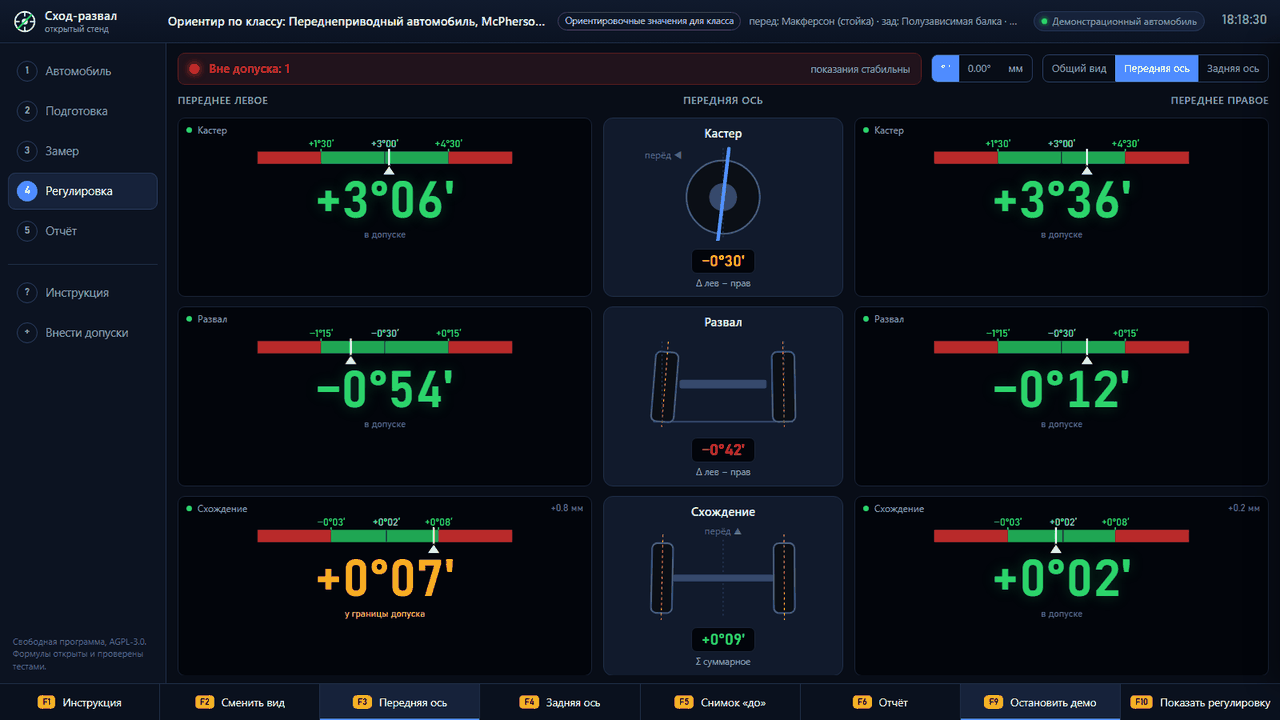
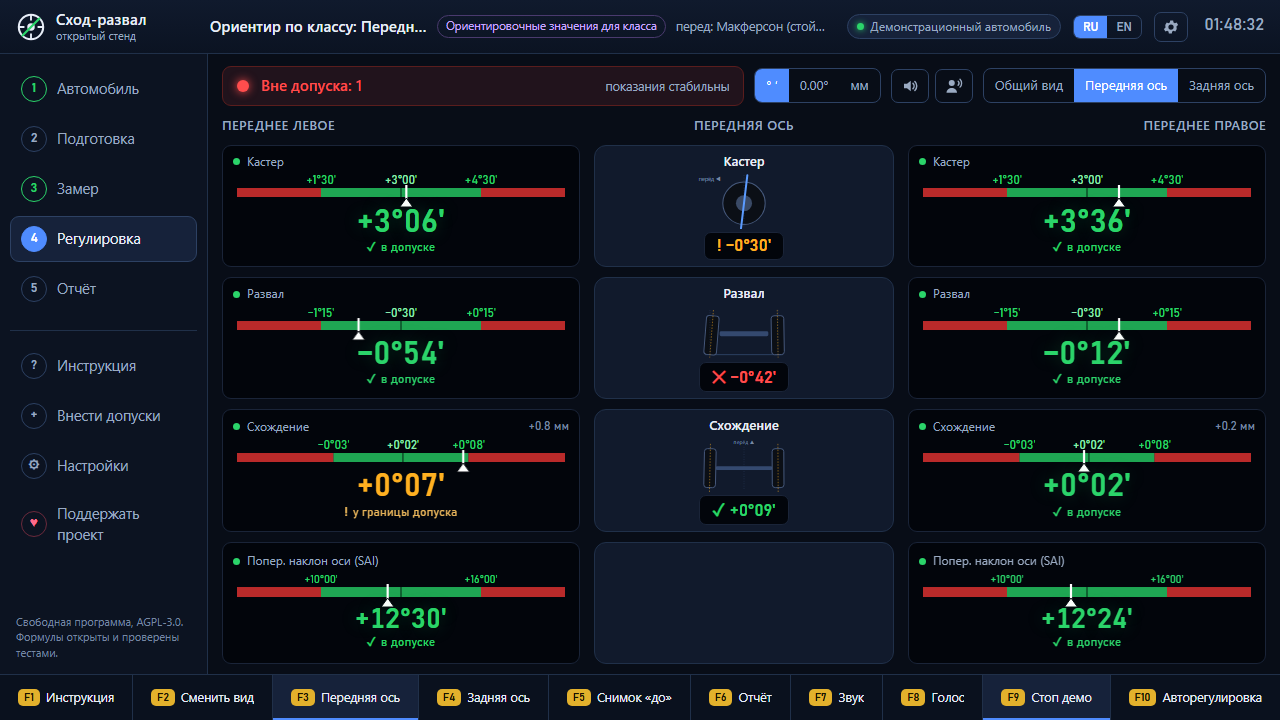
Документация: «Удобно каждому», раздел о доступности, новые снимки
- README (RU/EN): раздел «Удобно каждому», светлая тема на снимке.
- Инструкция: раздел «Настройки и доступность», марки по регионам,
  F7/F8 и клавиатура в таблице клавиш.
- docs/GUIDE.md собирается из инструкции программы скриптом
  docs/tools/guide_md.py — теперь он в репозитории.
- Снимки экранов пересняты с нового интерфейса.

diff --git a/docs/tools/guide_md.py b/docs/tools/guide_md.py
@@ -1,0 +1,143 @@
+"""Build docs/GUIDE.md from the in-app guide (internal/server/web/js/guide/ru.js
+and en.js), so the guide on GitHub says exactly what the program says.
+
+    python docs/tools/guide_md.py
+
+The section "Suspension types" is filled in the program from the suspension
+catalogue; here its table is kept from the current GUIDE.md.
+"""
+import html
+import os
+import re
+
+ROOT = os.path.normpath(os.path.join(os.path.dirname(os.path.abspath(__file__)), '..', '..'))
+GUIDE = os.path.join(ROOT, 'internal', 'server', 'web', 'js', 'guide')
+OUT = os.path.join(ROOT, 'docs', 'GUIDE.md')
+
+HEAD = {
+    'ru': dict(anchor='ru', lang_line='**Русский** · [English](#eng)', title='Сход-развал — инструкция',
+               after='Та же инструкция есть в программе — клавиша **F1**. Подробности о методе и точности — в [PROCEDURE.md](PROCEDURE.md).',
+               toc='**Содержание:**'),
+    'en': dict(anchor='eng', lang_line='[Русский](#ru) · **English**', title='Wheel alignment — guide',
+               after='The same guide is inside the program — press **F1**. Method and accuracy in depth — [PROCEDURE.md](PROCEDURE.md#eng).',
+               toc='**Contents:**'),
+}
+PREFIX = {'ru': 'ru', 'en': 'en'}
+
+# Pictures at the end of a section — only on GitHub, the program shows itself.
+IMAGES = {
+    'ru': {'vehicle': '![Выбор автомобиля](img/vehicle.png)',
+           'phone': '<img src="img/phone.png" width="220" alt="Страница на телефоне">',
+           'live': '![Экран регулировки](img/live-overview.png)',
+           'access': '![Настройки](img/settings.png)'},
+    'en': {'vehicle': '![Choosing a vehicle](img/vehicle-en.png)',
+           'phone': '<img src="img/phone.png" width="220" alt="The phone page">',
+           'live': '![The adjustment screen](img/live-overview-en.png)',
+           'access': '![Settings](img/settings-en.png)'},
+}
+
+
+def read_js(lang):
+    src = open(os.path.join(GUIDE, lang + '.js'), encoding='utf-8').read()
+    lede = re.search(r"lede:\s*`(.*?)`", src, re.S).group(1)
+    sections = re.findall(r"^\['(\w+)', '((?:[^'\\]|\\.)*)', `(.*?)`\],", src, re.S | re.M)
+    return lede, sections
+
+
+def unjs(s):
+    # Template literals: \\ is a backslash.
+    return s.replace('\\\\', '\\')
+
+
+def inline(s):
+    s = re.sub(r'\s+', ' ', s).strip()
+    s = re.sub(r'<span class="badge[^"]*">(.*?)</span>', r'`\1`', s)
+    s = re.sub(r'</?(b|strong)>', '**', s)
+    s = re.sub(r'</?i>', '*', s)
+    s = re.sub(r'<code>(.*?)</code>', lambda m: '`' + html.unescape(m.group(1)) + '`', s)
+    s = re.sub(r'<a href="([^"]+)">(.*?)</a>', r'[\2](\1)', s)
+    s = re.sub(r'<br\s*/?>', '<br>', s)
+    s = re.sub(r'<span[^>]*>(.*?)</span>', r'\1', s)
+    s = s.replace('&lt;', '<').replace('&gt;', '>').replace('&amp;', '&')
+    return s
+
+
+def table(t):
+    rows = re.findall(r'<tr>(.*?)</tr>', t, re.S)
+    head = re.search(r'<thead>(.*?)</thead>', t, re.S)
+    out = []
+    if head:
+        cells = re.findall(r'<th>(.*?)</th>', head.group(1), re.S)
+        out.append('| ' + ' | '.join(inline(c) for c in cells) + ' |')
+        out.append('|' + '|'.join('---' for _ in cells) + '|')
+        rows = re.findall(r'<tr>(.*?)</tr>', t.split('</thead>', 1)[1], re.S)
+    else:
+        out.append('|   |   |')
+        out.append('|---|---|')
+    for r in rows:
+        m = re.match(r'\s*<td colspan="2"[^>]*>(.*?)</td>\s*$', r, re.S)
+        if m:
+            out.append(f'| **{inline(m.group(1))}** |  |')
+            continue
+        cells = re.findall(r'<td[^>]*>(.*?)</td>', r, re.S)
+        out.append('| ' + ' | '.join(inline(c) for c in cells) + ' |')
+    return '\n'.join(out)
+
+
+def lists(tag, body):
+    items = re.findall(r'<li>(.*?)</li>', body, re.S)
+    mark = (lambda i: f'{i + 1}. ') if tag == 'ol' else (lambda i: '- ')
+    return '\n'.join(mark(i) + inline(x) for i, x in enumerate(items))
+
+
+def block(h, susp_table):
+    out = []
+    pos = 0
+    pat = re.compile(r'<(p|ol|ul|table|div)([^>]*)>(.*?)</\1>', re.S)
+    for m in pat.finditer(h):
+        tag, attrs, body = m.group(1), m.group(2), m.group(3)
+        if tag == 'p':
+            out.append(inline(body))
+        elif tag in ('ol', 'ul'):
+            out.append(lists(tag, body))
+        elif tag == 'table':
+            out.append(table(m.group(0)))
+        elif tag == 'div':
+            if 'note' in attrs:
+                out.append('> ' + inline(body))
+            elif 'gSusp' in attrs:
+                out.append(susp_table)
+            else:
+                out.append(inline(body))
+    return '\n\n'.join(x for x in out if x)
+
+
+def current_susp(lang):
+    """The suspension table as it stands in GUIDE.md now."""
+    if not os.path.exists(OUT):
+        return ''
+    md = open(OUT, encoding='utf-8').read()
+    p = PREFIX[lang]
+    m = re.search(rf'<a id="{p}-susp"></a>\n\n## [^\n]*\n\n[^\n]*\n\n(.*?)\n\n<a id="{p}-trucks"></a>', md, re.S)
+    return m.group(1).strip() if m else ''
+
+
+def build(lang):
+    lede, sections = read_js(lang)
+    h = HEAD[lang]
+    p = PREFIX[lang]
+    out = [f'<a id="{h["anchor"]}"></a>', h['lang_line'], f'# {h["title"]}', inline(lede), h['after'],
+           h['toc'] + ' ' + ' · '.join(f'[{inline(unjs(name))}](#{p}-{sid})' for sid, name, _ in sections)]
+    susp = current_susp(lang)
+    for sid, name, body in sections:
+        out.append(f'<a id="{p}-{sid}"></a>')
+        out.append(f'## {inline(unjs(name))}')
+        out.append(block(unjs(body), susp))
+        if sid in IMAGES[lang]:
+            out.append(IMAGES[lang][sid])
+    return '\n\n'.join(out)
+
+
+doc = build('ru') + '\n\n---\n\n' + build('en') + '\n'
+open(OUT, 'w', encoding='utf-8', newline='\n').write(doc)
+print(len(doc.splitlines()), 'lines')

diff --git a/docs/GUIDE.md b/docs/GUIDE.md
@@ -8,7 +8,7 @@
 
 Та же инструкция есть в программе — клавиша **F1**. Подробности о методе и точности — в [PROCEDURE.md](PROCEDURE.md).
 
-**Содержание:** [Коротко: пять шагов](#ru-start) · [Установка и первый запуск](#ru-install) · [Углы простыми словами](#ru-angles) · [Шаг 1. Автомобиль](#ru-vehicle) · [Шаг 2. Подготовка](#ru-prep) · [Инструмент и площадка](#ru-tools) · [Замер: струна и угломер](#ru-string) · [Замер: телефон на колесе](#ru-phone) · [Замер: камера и мишени](#ru-optical) · [Замер: свой датчик](#ru-sensor) · [Шаг 4. Экран регулировки](#ru-live) · [Порядок регулировки — не переставляйте](#ru-order) · [Шаг 5. Отчёт](#ru-report) · [Типы подвески](#ru-susp) · [Грузовики, автобусы, фургоны](#ru-trucks) · [Когда регулировка не поможет](#ru-bent) · [Откуда берутся допуски](#ru-data) · [Если что-то не работает](#ru-trouble) · [Безопасность](#ru-safety) · [Клавиши](#ru-keys)
+**Содержание:** [Коротко: пять шагов](#ru-start) · [Установка и первый запуск](#ru-install) · [Настройки и доступность](#ru-access) · [Углы простыми словами](#ru-angles) · [Шаг 1. Автомобиль](#ru-vehicle) · [Шаг 2. Подготовка](#ru-prep) · [Инструмент и площадка](#ru-tools) · [Замер: струна и угломер](#ru-string) · [Замер: телефон на колесе](#ru-phone) · [Замер: камера и мишени](#ru-optical) · [Замер: свой датчик](#ru-sensor) · [Шаг 4. Экран регулировки](#ru-live) · [Порядок регулировки — не переставляйте](#ru-order) · [Шаг 5. Отчёт](#ru-report) · [Типы подвески](#ru-susp) · [Грузовики, автобусы, фургоны](#ru-trucks) · [Когда регулировка не поможет](#ru-bent) · [Откуда берутся допуски](#ru-data) · [Если что-то не работает](#ru-trouble) · [Безопасность](#ru-safety) · [Клавиши](#ru-keys)
 
 <a id="ru-start"></a>
 
@@ -35,6 +35,23 @@
 
 Ключи запуска: `-browser` — открыть в браузере вместо окна; `-data <папка>` — хранить данные в другом месте (например, рядом с программой на флешке). Полный список — `wheelalign -h`.
 
+<a id="ru-access"></a>
+
+## Настройки и доступность
+
+Программа должна быть удобна каждому: тому, кто работает в ярком гараже, кто плохо видит или не различает цвета, кто лежит под машиной один или пользуется только клавиатурой. Всё это — в «Настройках» (значок ⚙ вверху справа): применяется сразу и хранится в файле настроек программы.
+
+- **Тема.** Тёмная — как экран стенда; светлая — для яркого гаража и солнца; высокий контраст — чёрное и белое, яркие цвета и толстые рамки.
+- **Размер интерфейса** — обычный, крупный, очень крупный: увеличивается всё сразу — текст, кнопки, цифры.
+- **Цвета состояний.** Если красный и зелёный трудно различить, включите «Синий и оранжевый». Рядом с цветом всегда стоит знак: **✓** — в допуске, **!** — у границы, **✕** — вне допуска; знаки видны и на чёрно-белой распечатке протокола.
+- **Без анимации** — для тех, кому мешает мигание. По умолчанию программа следует настройке Windows «Показывать анимацию».
+- **Регулировка на слух.** Выберите угол на экране регулировки и включите звук (<kbd>F7</kbd>): вне допуска программа пищит — тем чаще, чем ближе к допуску, — при входе в допуск звучит перезвон, при выходе — низкий тон. Голос (<kbd>F8</kbd>) читает выбранный угол вслух, говорит, когда он вошёл в допуск и когда в допуске всё. Голос — системный, Windows; если для вашего языка его нет: Параметры → Время и язык → Речь → «Добавить голоса».
+- **Без мыши.** Всё доступно с клавиатуры: <kbd>Tab</kbd> — к следующему элементу, <kbd>Enter</kbd> или пробел — нажать, <kbd>Esc</kbd> — закрыть панель; F-клавиши подписаны внизу экрана. Рамка показывает, где фокус. Экранный диктор (встроенный в Windows или NVDA) читает показания, итог и сообщения программы.
+- **Мастерская.** Название, адрес и исполнитель попадают в шапку протокола.
+- **Приветствие** при первом запуске проводит по этим настройкам и помогает выбрать способ замера. Открыть его снова — «Настройки → Показать приветствие снова».
+
+![Настройки](img/settings.png)
+
 <a id="ru-angles"></a>
 
 ## Углы простыми словами
@@ -53,6 +70,7 @@
 ## Шаг 1. Автомобиль
 
 - **Поиск** — по марке и модели, по-русски или латиницей: «Волга 3110», «ГАЗель», «2107», «Hilux». Фильтры сверху сужают список до легковых, внедорожников, фургонов, грузовых или автобусов; поле «Год» отсекает другие поколения.
+- **Не знаете, как пишется?** Пока поле поиска пустое, ниже — все марки по регионам (СССР и Россия, Европа, США, Азия) с числом моделей и недавно выбранные машины. Нажмите на марку — останутся только её модели.
 - У каждой записи есть **метка источника**: заводское руководство, сообщество, «не проверено», «только конструкция». Чем метка слабее, тем внимательнее относитесь к цифрам — подробно в разделе «Откуда берутся допуски».
 - **Модели нет в базе?** Выберите ориентир по классу («легковой с McPherson», «грузовик с балкой на шкворнях»…). Это типичные значения для конструкции, а не для вашей модели: программа покажет, насколько углы далеки от типичных, и будет честно предупреждать об этом на всех экранах.
 - **Подвеска.** Программа подставляет тип подвески из базы; если его нет — выберите сами. Кнопка «Как узнать, какая у меня?» подскажет, по каким признакам отличить шкворень от шаровой опоры, McPherson от двух рычагов.
@@ -150,13 +168,14 @@
 
 ## Шаг 4. Экран регулировки
 
-- **Цифры.** Зелёная — в допуске, жёлтая — в допуске, но у границы, красная — вне допуска, белая — допуск не задан, серая — показаний нет. Над цифрой — шкала допуска: зелёная зона, стрелка — текущее значение.
+- **Цифры.** Зелёная — в допуске (**✓**), жёлтая — в допуске, но у границы (**!**), красная — вне допуска (**✕**), белая — допуск не задан, серая — показаний нет. Над цифрой — шкала допуска: зелёная зона, стрелка — текущее значение.
 - **Виды.** F2 переключает общий вид и крупные виды передней и задней оси; F3 и F4 — сразу нужная ось. Для работы под машиной удобнее крупный вид: цифры видно с двух-трёх метров.
 - **Единицы** — градусы с минутами, десятичные градусы; схождение можно показывать в миллиметрах (по диаметру обода с шага «Автомобиль»).
 - **«Показания стабильны».** Пока значения меняются, внизу написано «показания меняются…». Записывать и затягивать контргайки — только когда стабильно.
 - **Нажмите на любой угол** — справа откроется панель: что это за угол, чем он регулируется на вашей подвеске, что написано для этой модели.
 - **Помощник «сколько крутить».** В той же панели: нажмите «Запомнить положение», поверните тягу или эксцентрик на известную величину (¼, ½, 1 оборот) и нажмите, на сколько повернули. Программа посчитает, сколько даёт один оборот на вашей машине, и дальше будет подсказывать: «до номинала ≈ 1¼ оборота, в ту же сторону».
 - **Строка источников** вверху показывает, откуда идут данные: телефон, датчик, камера, ручной ввод, демо.
+- **Звук и голос** — кнопки рядом с единицами, клавиши <kbd>F7</kbd> и <kbd>F8</kbd>: подсказки, когда экрана не видно (подробно — «Настройки и доступность»).
 
 ![Экран регулировки](img/live-overview.png)
 
@@ -276,9 +295,13 @@
 | <kbd>F3</kbd> / <kbd>F4</kbd> | Передняя / задняя ось крупно |
 | <kbd>F5</kbd> | Снимок «до», затем «после» |
 | <kbd>F6</kbd> | Отчёт |
-| <kbd>F9</kbd> / <kbd>F10</kbd> | Демонстрация / показать регулировку по шагам |
+| <kbd>F7</kbd> / <kbd>F8</kbd> | Звуковые сигналы / голос для выбранного угла |
+| <kbd>F9</kbd> / <kbd>F10</kbd> | Демонстрация / авторегулировка: программа сама выставляет углы по шагам |
 | <kbd>←</kbd> <kbd>→</kbd> | В демонстрации — «крутить» выбранный угол (с Shift — крупнее) |
 | <kbd>Esc</kbd> | Закрыть боковую панель |
+| **Везде:** |  |
+| <kbd>Tab</kbd> / <kbd>Shift</kbd>+<kbd>Tab</kbd> | К следующему / предыдущему элементу |
+| <kbd>Enter</kbd>, пробел | Нажать кнопку, открыть выбранный угол |
 
 ---
 
@@ -292,7 +315,7 @@ Wheel alignment is neither magic nor a workshop secret. It is four wheels, a few
 
 The same guide is inside the program — press **F1**. Method and accuracy in depth — [PROCEDURE.md](PROCEDURE.md#eng).
 
-**Contents:** [In short: five steps](#en-start) · [Installing and first start](#en-install) · [The angles in plain words](#en-angles) · [Step 1. Vehicle](#en-vehicle) · [Step 2. Preparation](#en-prep) · [Tools and floor](#en-tools) · [Measuring: strings and an inclinometer](#en-string) · [Measuring: a phone on the wheel](#en-phone) · [Measuring: camera and targets](#en-optical) · [Measuring: a sensor of your own](#en-sensor) · [Step 4. The adjustment screen](#en-live) · [Adjustment order — do not change it](#en-order) · [Step 5. The report](#en-report) · [Suspension types](#en-susp) · [Trucks, buses, vans](#en-trucks) · [When adjustment will not help](#en-bent) · [Where the specifications come from](#en-data) · [If something does not work](#en-trouble) · [Safety](#en-safety) · [Keys](#en-keys)
+**Contents:** [In short: five steps](#en-start) · [Installing and first start](#en-install) · [Settings and accessibility](#en-access) · [The angles in plain words](#en-angles) · [Step 1. Vehicle](#en-vehicle) · [Step 2. Preparation](#en-prep) · [Tools and floor](#en-tools) · [Measuring: strings and an inclinometer](#en-string) · [Measuring: a phone on the wheel](#en-phone) · [Measuring: camera and targets](#en-optical) · [Measuring: a sensor of your own](#en-sensor) · [Step 4. The adjustment screen](#en-live) · [Adjustment order — do not change it](#en-order) · [Step 5. The report](#en-report) · [Suspension types](#en-susp) · [Trucks, buses, vans](#en-trucks) · [When adjustment will not help](#en-bent) · [Where the specifications come from](#en-data) · [If something does not work](#en-trouble) · [Safety](#en-safety) · [Keys](#en-keys)
 
 <a id="en-start"></a>
 
@@ -319,6 +342,23 @@ Where your data lives: `%APPDATA%\wheelalign` (on Linux `~/.config/wheelalign`).
 
 Start options: `-browser` — open in the browser instead of a window; `-data <folder>` — keep the data elsewhere (for example next to the program on a USB stick). Full list: `wheelalign -h`.
 
+<a id="en-access"></a>
+
+## Settings and accessibility
+
+The program should suit everyone: whoever works in a bright garage, sees poorly or cannot tell colours apart, lies under the car alone or uses only a keyboard. All of it is in “Settings” (the ⚙ icon at the top right): it applies at once and is kept in the program's settings file.
+
+- **Theme.** Dark — like an aligner's screen; light — for a bright garage and sunlight; high contrast — black and white, bright colours and thick borders.
+- **Interface size** — normal, large, extra large: everything grows at once — text, buttons, figures.
+- **Status colours.** If red and green are hard to tell apart, choose “Blue and orange”. A sign always stands next to the colour: **✓** — in tolerance, **!** — near the limit, **✕** — out of tolerance; the signs show on a black-and-white printout of the report too.
+- **No animation** — for those bothered by blinking. By default the program follows the Windows “Show animations” setting.
+- **Adjusting by ear.** Choose an angle on the adjustment screen and turn the sound on (<kbd>F7</kbd>): out of tolerance the program beeps — faster the closer it gets — a chime sounds on entering the tolerance and a low tone on leaving it. The voice (<kbd>F8</kbd>) reads the chosen angle aloud and says when it is in tolerance and when everything is. The voice is the system one, from Windows; if there is none for your language: Settings → Time & language → Speech → “Add voices”.
+- **No mouse needed.** Everything works from the keyboard: <kbd>Tab</kbd> — to the next element, <kbd>Enter</kbd> or Space — press, <kbd>Esc</kbd> — close the panel; the F-keys are labelled at the bottom of the screen. A frame shows where the focus is. A screen reader (the one built into Windows, or NVDA) reads the readings, the result and the program's messages.
+- **Workshop.** Its name, address and the person doing the job go into the report header.
+- **The welcome** on first start walks through these settings and helps choose a way to measure. To open it again — “Settings → Show the welcome again”.
+
+![Settings](img/settings-en.png)
+
 <a id="en-angles"></a>
 
 ## The angles in plain words
@@ -337,6 +377,7 @@ Start options: `-browser` — open in the browser instead of a window; `-data <f
 ## Step 1. Vehicle
 
 - **Search** by make and model, in Latin or Cyrillic letters: “Volga 3110”, “GAZelle”, “2107”, “Hilux”. The filters at the top narrow the list to cars, SUVs, vans, trucks or buses; the “Year” box drops other generations.
+- **Not sure of the spelling?** While the search box is empty, every make is listed below by region (USSR and Russia, Europe, USA, Asia) with its number of models, along with recently chosen vehicles. Click a make to keep only its models.
 - Every entry carries a **source badge**: factory manual, community, unverified, design only. The weaker the badge, the more carefully treat the figures — see “Where the specifications come from”.
 - **Model not in the database?** Choose the guidance for its class (“car with MacPherson struts”, “truck with a kingpin beam axle”…). These are typical values for the design, not for your model: the program shows how far the angles are from typical and says so honestly on every screen.
 - **Suspension.** The program fills in the suspension type from the database; if it is missing, choose it yourself. “How do I tell which one I have?” explains how to tell a kingpin from a ball joint, MacPherson from double wishbones.
@@ -434,13 +475,14 @@ Any device on your network — a home-made ESP32 head, a laser sensor, another p
 
 ## Step 4. The adjustment screen
 
-- **Figures.** Green — in spec, amber — in spec but near the limit, red — out of spec, white — no specification, grey — no reading. Above the figure is the tolerance scale: the green zone and a pointer at the current value.
+- **Figures.** Green — in spec (**✓**), amber — in spec but near the limit (**!**), red — out of spec (**✕**), white — no specification, grey — no reading. Above the figure is the tolerance scale: the green zone and a pointer at the current value.
 - **Views.** F2 cycles between the overview and large front- and rear-axle views; F3 and F4 jump straight to an axle. Under the car the large view is easier: the figures are readable from two or three metres.
 - **Units** — degrees and minutes or decimal degrees; toe can be shown in millimetres (at the rim diameter from the Vehicle step).
 - **“Readings steady”.** While values are changing the screen says “readings changing…”. Record figures and tighten lock nuts only when steady.
 - **Tap any angle** — a panel opens on the right: what the angle is, what adjusts it on your suspension, what the data says for this model.
 - **The “how far to turn” helper.** In the same panel: press “Remember position”, turn the tie rod or eccentric by a known amount (¼, ½, 1 turn) and press how far you turned it. The program works out what one turn does on your car and from then on tells you: “to nominal ≈ 1¼ turns, the same way”.
 - **The source bar** at the top shows where data comes from: phone, sensor, camera, manual entry, demo.
+- **Sound and voice** — the buttons next to the units, keys <kbd>F7</kbd> and <kbd>F8</kbd>: guidance when you cannot see the screen (see “Settings and accessibility”).
 
 ![The adjustment screen](img/live-overview-en.png)
 
@@ -560,7 +602,10 @@ Have a workshop manual? The “Enter specs” button on the left: the program ch
 | <kbd>F3</kbd> / <kbd>F4</kbd> | Front / rear axle, large |
 | <kbd>F5</kbd> | “Before” snapshot, then “after” |
 | <kbd>F6</kbd> | Report |
-| <kbd>F9</kbd> / <kbd>F10</kbd> | Demonstration / show the adjustment step by step |
+| <kbd>F7</kbd> / <kbd>F8</kbd> | Sound signals / voice for the chosen angle |
+| <kbd>F9</kbd> / <kbd>F10</kbd> | Demonstration / auto-adjust: the program sets the angles itself, step by step |
 | <kbd>←</kbd> <kbd>→</kbd> | In the demonstration — “turn” the selected angle (with Shift — in bigger steps) |
 | <kbd>Esc</kbd> | Close the side panel |
-
+| **Everywhere:** |  |
+| <kbd>Tab</kbd> / <kbd>Shift</kbd>+<kbd>Tab</kbd> | To the next / previous element |
+| <kbd>Enter</kbd>, Space | Press a button, open the chosen angle |

diff --git a/README.md b/README.md
@@ -15,12 +15,14 @@
 
 Одна программа, без установки и без интернета — на любом ноутбуке в гараже.
 Интерфейс на русском и английском: переключатель **RU / EN** в верхнем углу.
+Три темы, крупный шрифт, палитра для дальтонизма, подсказки звуком и голосом —
+[удобно каждому](#удобно-каждому).
 
 ![Экран регулировки](docs/img/live-overview.png)
 
 **Разделы:** [Зачем](#зачем) · [Скачать](#скачать-и-запустить) ·
 [Как выглядит](#как-это-выглядит) · [Чем мерить](#чем-мерить) ·
-[Типы подвески](#любая-машина-типы-подвески) · [База автомобилей](#база-автомобилей) ·
+[Типы подвески](#любая-машина-типы-подвески) · [Удобно каждому](#удобно-каждому) · [База автомобилей](#база-автомобилей) ·
 [Честно о допусках](#честно-о-допусках) · [Документация](#документация) ·
 [Поддержать проект](#поддержать-проект) · [Лицензия](#лицензия)
 
@@ -158,6 +160,35 @@ go build -ldflags "-H=windowsgui" -o wheelalign.exe ./cmd/wheelalign
 прокладками, а поперечная тяга задаёт только суммарное схождение.
 
 ![Выбор автомобиля](docs/img/vehicle.png)
+
+---
+
+## Удобно каждому
+
+Программой должен суметь пользоваться любой — и тот, кто впервые слышит слово
+«кастер», и мастер, и человек, который плохо видит или работает один под
+машиной.
+
+- **Приветствие при первом запуске**: язык, тема и размер — и сразу подсказка,
+  с чего начать и чем мерить. Пропустить можно одной клавишей.
+- **Три темы**: тёмная, как экран стенда; светлая — для яркого гаража и солнца;
+  высокий контраст — для слабого зрения. **Крупный и очень крупный** размер
+  увеличивает весь интерфейс.
+- **Цвет — не единственный сигнал.** Рядом с цветом всегда знак: ✓ в допуске,
+  ! у границы, ✕ вне допуска — и на экране, и на чёрно-белой печати. Для
+  дальтонизма — палитра «синий и оранжевый» вместо «зелёного и красного».
+- **Регулировка на слух** (F7, F8): выберите угол — программа пищит, тем чаще,
+  чем ближе он к допуску, звенит, когда вошёл в допуск, и может читать значение
+  голосом Windows. Экрана из-под машины не видно — а слышно всё.
+- **Без мыши**: всё делается с клавиатуры — Tab, Enter, Esc и F-клавиши, с
+  видимой рамкой фокуса. Экранный диктор читает показания и итог.
+- **Марки по регионам**: не знаете, как пишется название, — выберите марку из
+  списка «СССР и Россия · Европа · США · Азия»; недавние машины — сверху.
+- **Мастерская в протоколе**: название, адрес и исполнитель — в шапке отчёта.
+
+Все настройки хранятся программой в её файле настроек и переживают обновление.
+
+![Светлая тема](docs/img/live-light.png)
 
 ---
 
@@ -372,13 +403,14 @@ joint, car, truck or bus.
 
 One program, no installation and no internet needed — on any laptop in the
 garage. The interface is in Russian and English: the **RU / EN** switch in the
-top corner.
+top corner. Three themes, large text, a colour-blind palette, guidance by sound
+and voice — [for everyone](#for-everyone).
 
 ![The adjustment screen](docs/img/live-overview-en.png)
 
 **Sections:** [Why](#why) · [Download](#download-and-run) ·
 [What it looks like](#what-it-looks-like) · [What to measure with](#what-to-measure-with) ·
-[Suspension types](#any-vehicle-suspension-types) · [Vehicle database](#vehicle-database) ·
+[Suspension types](#any-vehicle-suspension-types) · [For everyone](#for-everyone) · [Vehicle database](#vehicle-database) ·
 [Honestly about tolerances](#honestly-about-tolerances) · [Documentation](#documentation) ·
 [Support the project](#support-the-project) · [Licence](#licence)
 
@@ -517,6 +549,39 @@ and buses — that a beam's camber is not adjustable, caster is corrected with
 taper shims, and the cross tie rod sets only the total toe.
 
 ![Choosing a vehicle](docs/img/vehicle-en.png)
+
+---
+
+## For everyone
+
+Anyone should be able to use the program — someone who has never heard the word
+"caster", a mechanic, and a person who sees poorly or works under the car alone.
+
+- **A welcome on first start**: language, theme and size, then where to begin
+  and what to measure with. One key skips it.
+- **Three themes**: dark, like an aligner's screen; light, for a bright garage
+  and sunlight; high contrast, for low vision. **Large and extra large** sizes
+  enlarge the whole interface.
+- **Colour is never the only signal.** A sign always stands next to it: ✓ in
+  tolerance, ! near the limit, ✕ out of tolerance — on screen and on a
+  black-and-white printout. For colour blindness there is a "blue and orange"
+  palette instead of "green and red".
+- **Adjusting by ear** (F7, F8): choose an angle and the program beeps, faster
+  the closer it is to tolerance, chimes when it gets there, and can read the
+  value aloud with a Windows voice. You cannot see the screen from under the
+  car — but you can hear it.
+- **No mouse needed**: everything works from the keyboard — Tab, Enter, Esc and
+  the F-keys, with a visible focus frame. A screen reader reads the readings and
+  the result.
+- **Makes by region**: not sure how a name is spelt — pick the make from "USSR
+  and Russia · Europe · USA · Asia"; recent vehicles are at the top.
+- **Your workshop on the report**: name, address and who did the job in the
+  report header.
+
+The program keeps all settings in its own settings file, and they survive
+updates.
+
+![The light theme](docs/img/live-light.png)
 
 ---
 
